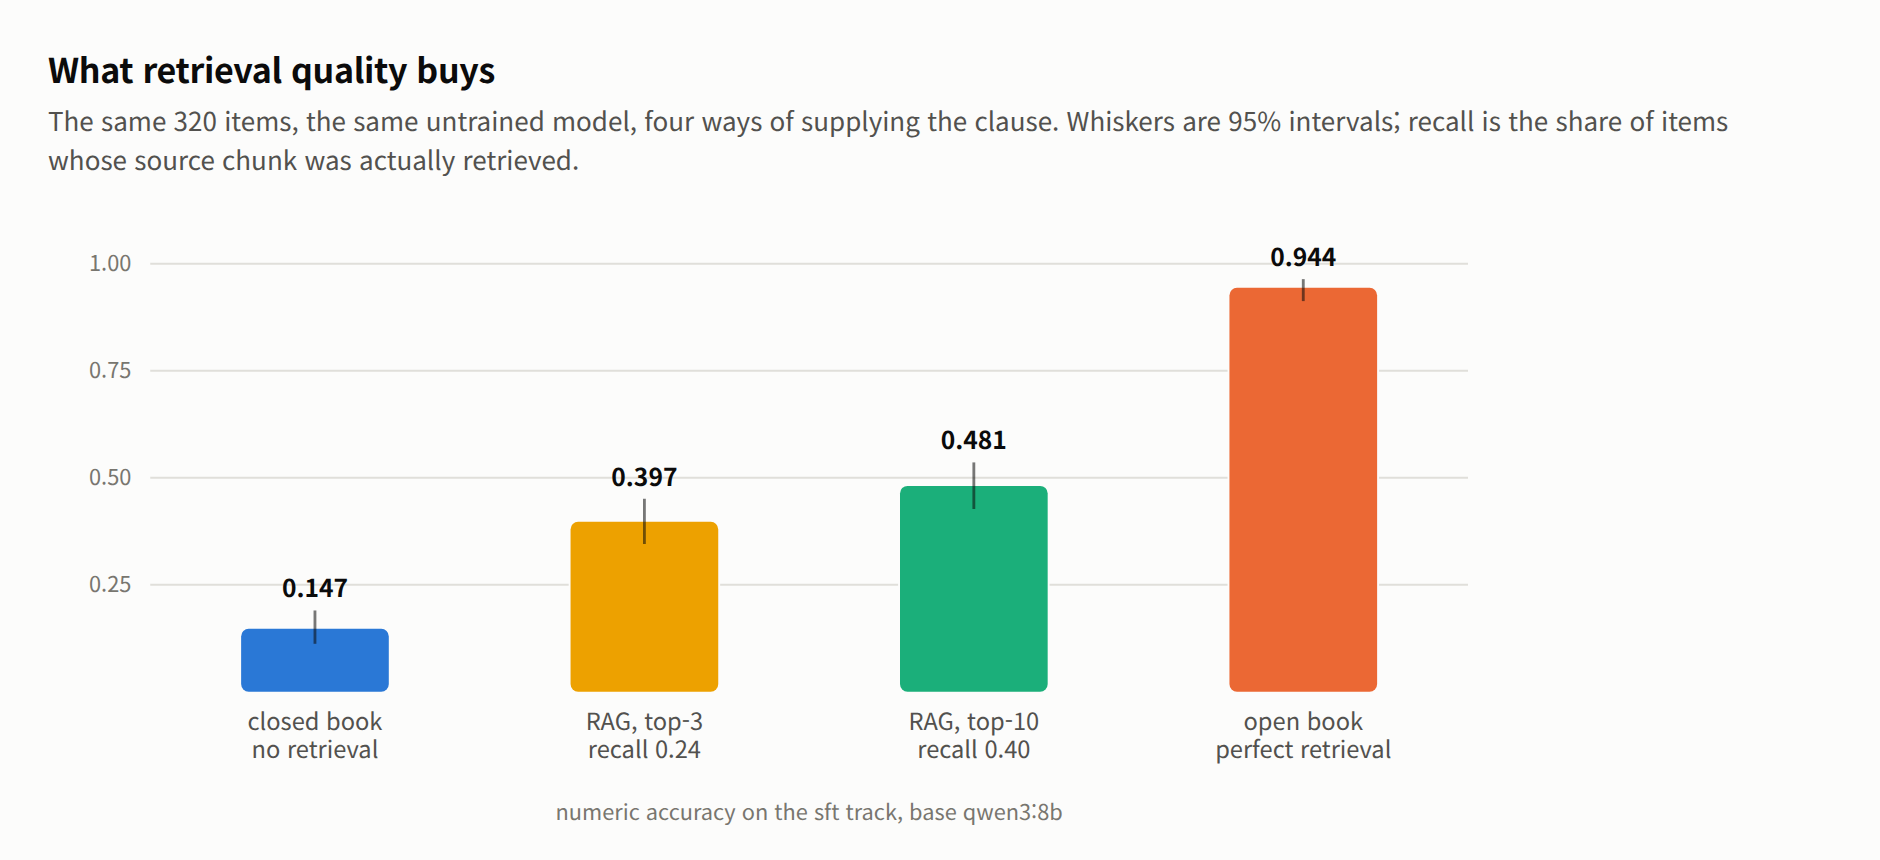
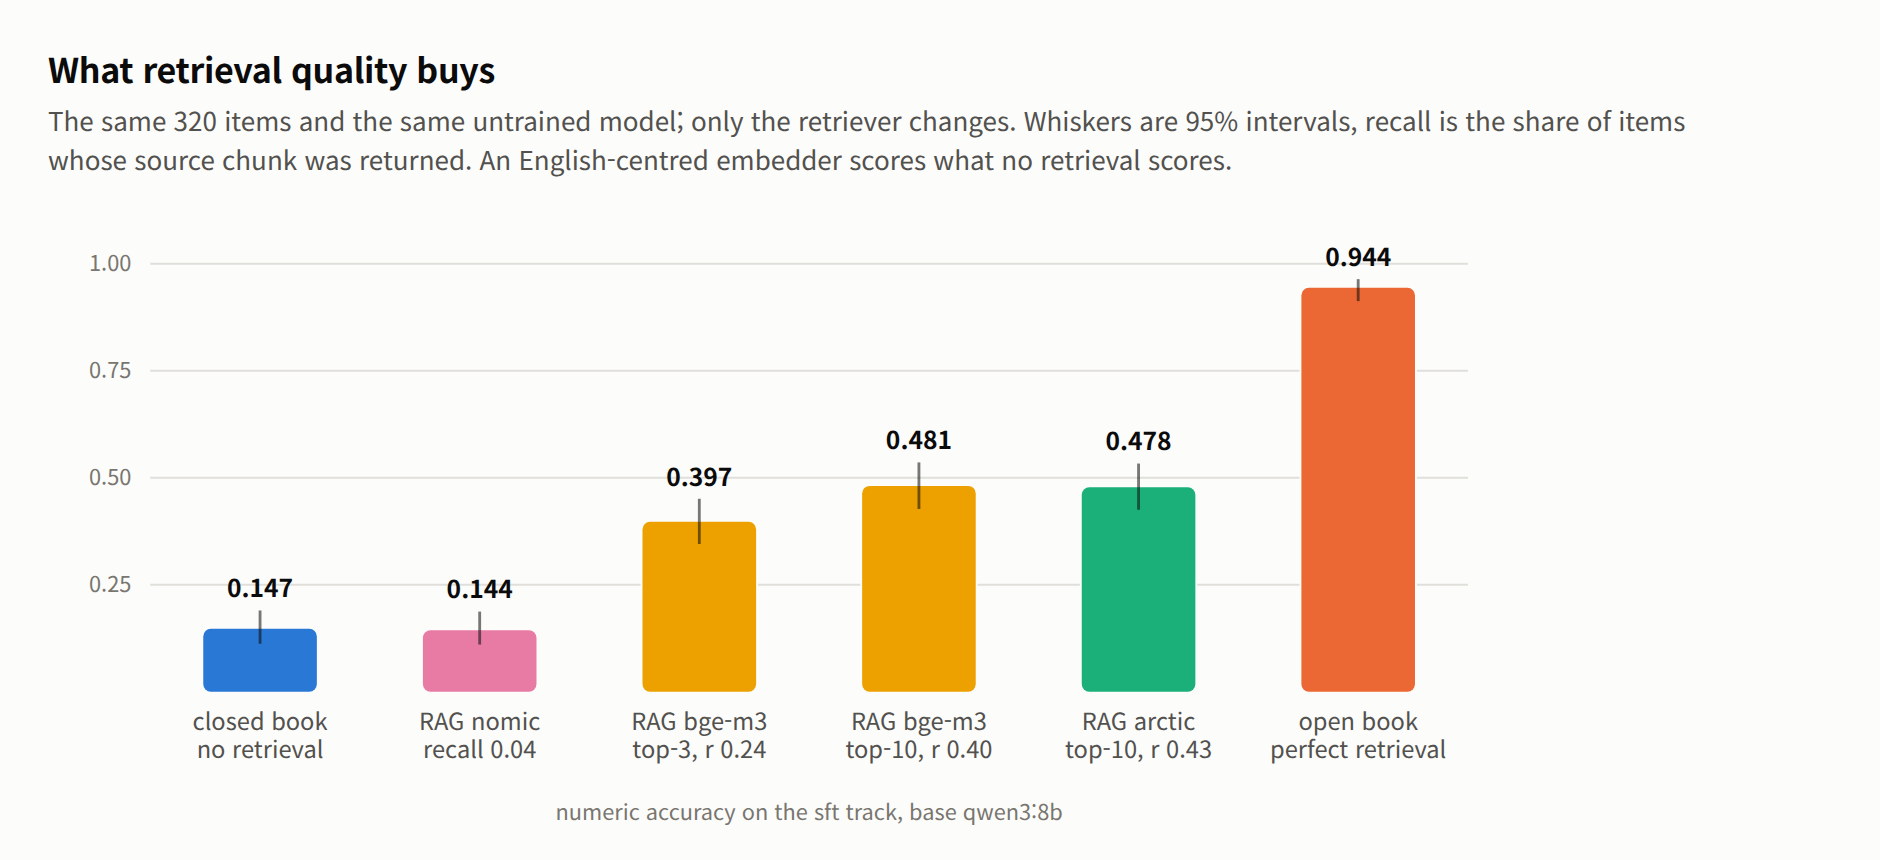
sweep four embedders: the wrong one makes RAG worth nothing
Retrieval was measured with one embedder, so the earlier section could say the
retriever mattered without saying how much or what to pick. Four models over
the same 5,381 chunks and 395 questions: the two multilingual ones retrieve the
right chunk 10 to 15 times more often than the two English-centred ones, and
end to end nomic-embed-text scores 0.144 against 0.147 for no retrieval at all.

That failure mode is worth naming because it is silent - the pipeline returns
passages, the model answers them, and only the score reveals that the passages
were unrelated to the question. Between the two working embedders the
difference is 0.003, so the family matters and the choice within it does not.

diff --git a/README.md b/README.md
@@ -835,14 +835,16 @@ run, so the numbers are directly comparable.
 
 <picture>
   <source media="(prefers-color-scheme: dark)" srcset="doc/rag-dark.png">
-  <img alt="Numeric accuracy for the untrained base model under four retrieval conditions: closed book 0.147, RAG top-3 0.397, RAG top-10 0.481, open book 0.944." src="doc/rag-light.png">
+  <img alt="Numeric accuracy for the untrained base model under six retrieval conditions: closed book 0.147, RAG with an English-centred embedder 0.144, RAG bge-m3 top-3 0.397, bge-m3 top-10 0.481, arctic-embed2 top-10 0.478, open book 0.944." src="doc/rag-light.png">
 </picture>
 
 | Condition | recall@k | numeric | nameset F1 |
 |---|---:|---:|---:|
 | closed book, no retrieval | — | 0.147 | 0.000 |
-| RAG, top-3 | 0.240 | 0.397 | 0.236 |
-| RAG, top-10 | 0.400 | 0.481 | 0.318 |
+| RAG, `nomic-embed-text`, top-10 | 0.041 | 0.144 | 0.068 |
+| RAG, `bge-m3`, top-3 | 0.240 | 0.397 | 0.236 |
+| RAG, `bge-m3`, top-10 | 0.400 | 0.481 | 0.318 |
+| RAG, `snowflake-arctic-embed2`, top-10 | 0.428 | 0.478 | 0.319 |
 | open book, perfect retrieval | 1.000 | 0.944 | 0.587 |
 
 `recall@k` is the share of items whose source chunk the retriever actually
@@ -858,15 +860,29 @@ this corpus, moving from a mediocre retriever to a good one is worth roughly
 nothing at all. Retrieval quality dominates, and a project with a fixed budget
 should spend it there first.
 
-**One finding worth stating separately: the embedding model decides whether any
-of this works.** The first run used `nomic-embed-text`, which is
-English-centred, and scored **recall@3 of 0.000** — not a bug, a measurement.
-Its similarity scores on Korean regulation clustered in a narrow band with no
-discriminative power, so the retrieved passages were unrelated to the question.
-Switching to `bge-m3`, a multilingual model, on the same corpus and the same
-queries gave recall@3 of 0.240. Anyone building Korean-language RAG on this kind
-of corpus should verify their embedder against a held-out set before trusting
-anything downstream of it.
+**The embedder decides whether any of this works.** Four embedding models were
+swept over the same 5,381 chunks and the same 395 questions, scoring retrieval
+alone:
+
+| Embedder | r@1 | r@3 | r@10 | r@20 |
+|---|---:|---:|---:|---:|
+| `snowflake-arctic-embed2` (multilingual) | 0.170 | 0.306 | 0.428 | 0.496 |
+| `bge-m3` (multilingual) | 0.134 | 0.241 | 0.400 | 0.468 |
+| `nomic-embed-text` (English-centred) | 0.010 | 0.023 | 0.041 | 0.061 |
+| `mxbai-embed-large` (English-centred) | 0.005 | 0.018 | 0.028 | 0.035 |
+
+The split is not a matter of degree. The two multilingual models retrieve the
+right chunk 10 to 15 times more often than the two English-centred ones, and
+end to end the difference is total: **RAG with `nomic-embed-text` scores 0.144,
+which is what the model scores with no retrieval at all (0.147).** Attaching a
+retriever that cannot search the language buys exactly nothing, and it fails
+silently — the pipeline returns passages, the model answers, and only the score
+shows that the passages were unrelated. Verify the embedder against a held-out
+set before trusting anything downstream of it.
+
+Between the two working embedders the difference is small (0.481 against 0.478
+at top-10), so the choice within a competent family matters far less than the
+choice of family.
 
 ## Are the items any good?
 
